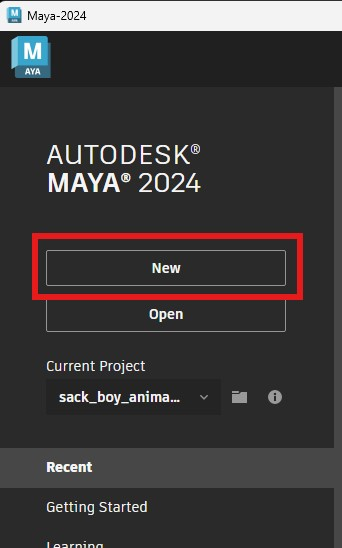
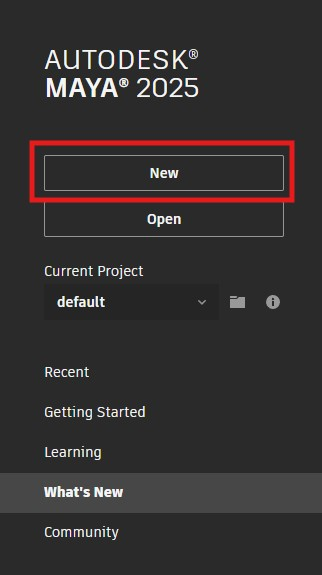
update 25 screenshot

diff --git a/1_interface_and_modeling.html b/1_interface_and_modeling.html
@@ -17,6 +17,7 @@
         >Maya Installaton Guide</a
       >
     </p>
+    <p>We will be using Maya 2025, but you can use a previous version.</p>
     <p>It is essential that you have a mouse.</p>
     <p>
       The screen shots in this worksheet are from the PC version of Maya, if you
@@ -287,7 +288,6 @@
     <p>When using Maya save regularly to avoid loosing work.</p>
     <ul>
       <li>Choose <strong>File &gt; Save scene As..</strong></li>
-      <li>Create a folder on called "principles_of_3D".</li>
       <li>Name the scene "worksheet_1_rocket" and save it.</li>
     </ul>
     <h3>Grouping</h3>
@@ -451,7 +451,7 @@
       </li>
     </ul>
     <p>
-      It is important that you don"t use <strong>ctrl</strong> and
+      It is important that you don't use <strong>ctrl</strong> and
       <strong>c</strong> as you normally would in other packages as this creates
       unwanted extra grouping in Maya.
     </p>

diff --git a/worksheet_1_ interface_and_modeling.md b/worksheet_1_ interface_and_modeling.md
@@ -6,6 +6,8 @@ All the machines in the lab have Maya installed, if you want you use your own ma
 
 [Maya Installaton Guide](https://www.uwe.ac.uk/study/it-services/software/specialist-software#autodesk_maya)
 
+We will be using Maya 2025, but you can use a previous version.
+
 It is essential that you have a mouse.
 
 The screen shots in this worksheet are from the PC version of Maya, if you are using a Mac they may look slightly different but the functionality will be the same.
@@ -184,8 +186,8 @@ You can show and hide it by using the button of the left panel
 ### Saving
 When using Maya save regularly to avoid loosing work.
 - Choose **File > Save scene As..**
-- Create a folder on called 'principles_of_3D'.
 - Name the scene 'worksheet_1_rocket' and save it.
+
 
 ### Grouping
 - Hold down **shift** and **click** the body and nose cone in the outliner to select them both.
